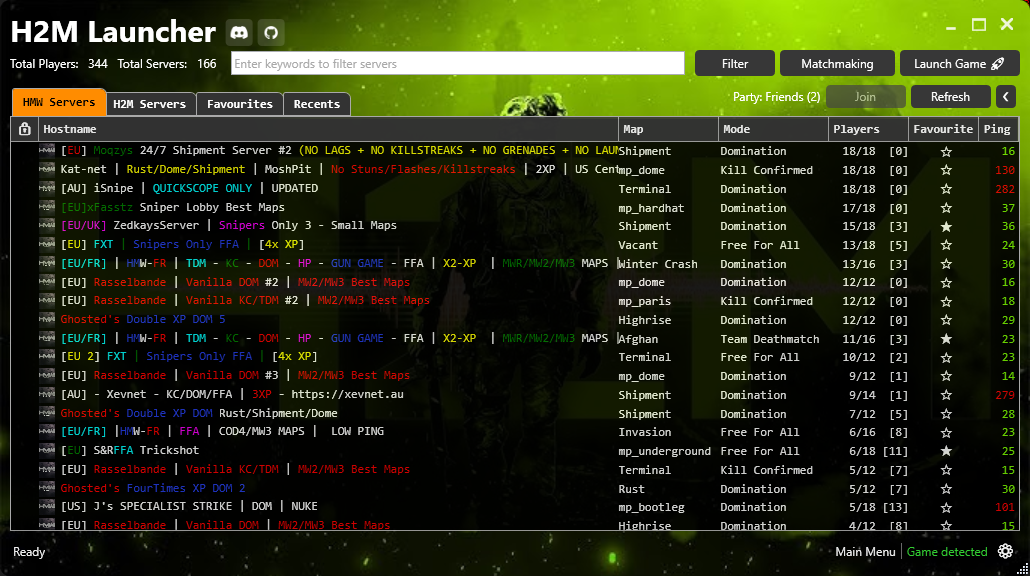
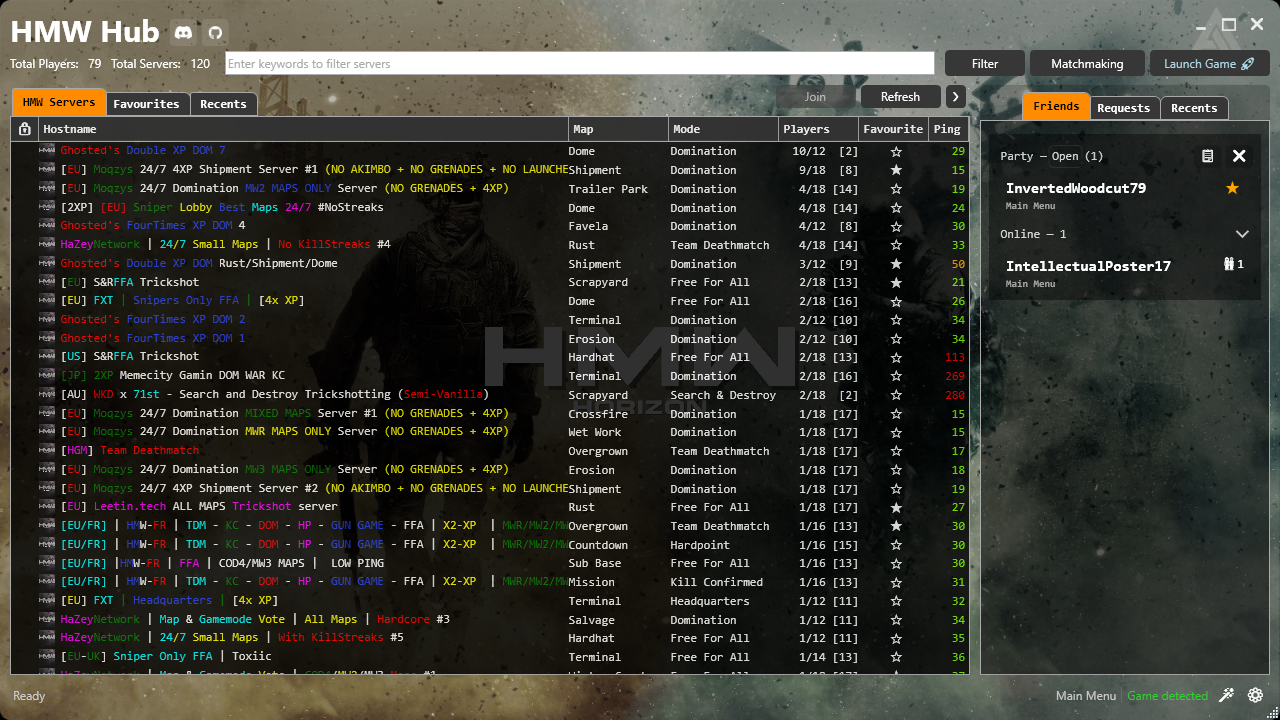
Rebrand (#223)
* change background image and text

* Change readme image

* Credits

* bump version 2.5.5-beta -> 2.6.0

* remove background override statusbar

* Add invalid protocol FAQ

diff --git a/H2MLauncher.UI/MainWindow.xaml b/H2MLauncher.UI/MainWindow.xaml
@@ -20,8 +20,8 @@
         ResizeMode="CanResizeWithGrip"
         MinHeight="576"
         MinWidth="1030"
-        Width="1030"
-        Height="576"
+        Width="1280"
+        Height="720"
         Background="Transparent"
         mc:Ignorable="d"
         MouseDown="Window_MouseDown"
@@ -29,7 +29,7 @@
         StateChanged="Window_StateChanged"
         Icon="Assets/icon.ico"
         xmlns:i="http://schemas.microsoft.com/xaml/behaviors"
-        Title="Better H2M-Launcher">
+        Title="HMW Hub">
     <i:Interaction.Triggers>
         <i:EventTrigger EventName="Loaded">
             <i:InvokeCommandAction Command="{Binding CheckUpdateStatusCommand}"/>
@@ -167,7 +167,7 @@
                     </Grid.ColumnDefinitions>
 
                     <!-- Title -->
-                    <TextBlock Grid.Column="0" Text="H2M Launcher" FontSize="30" FontWeight="Bold" Style="{DynamicResource TitleStyle}"/>
+                    <TextBlock Grid.Column="0" Text="HMW Hub" FontSize="30" FontWeight="Bold" Style="{DynamicResource TitleStyle}"/>
 
                     <!-- Socials -->
                     <StackPanel Grid.Column="2" Orientation="Horizontal" Margin="10,5,0,0">

diff --git a/H2MLauncher.UI/GlobalResources.xaml b/H2MLauncher.UI/GlobalResources.xaml
@@ -229,7 +229,7 @@
     <!-- Status Bar -->
     <Style x:Key="MainStatusBarStyle" TargetType="StatusBar">
         <Setter Property="Foreground" Value="{DynamicResource BrushNeutral200}" />
-        <Setter Property="Background" Value="Transparent"/>
+        <Setter Property="Background" Value="{DynamicResource TransparentDark600}"/>
     </Style>
 
     <Style TargetType="{x:Type Button}">
@@ -1069,7 +1069,7 @@
 
     <Style x:Key="ServerDataGridStyle" TargetType="DataGrid">
         <Setter Property="RowBackground" Value="Transparent"/>
-        <Setter Property="Background" Value="{DynamicResource DialogBackground}"/>
+        <Setter Property="Background" Value="{DynamicResource TransparentDark900}"/>
         <Setter Property="Opacity" Value="0.9"/>
         <Setter Property="BorderThickness" Value="0"/>
     </Style>

diff --git a/H2MLauncher.Core/Services/LauncherService.cs b/H2MLauncher.Core/Services/LauncherService.cs
@@ -25,7 +25,7 @@ namespace H2MLauncher.Core.Services
 
         // IMPORTANT: Set this to the same pre-release label used in GitHub
         // (appended like '-beta') or empty when this is a normal release!
-        public static readonly string CurrentPreReleaseLabel = "beta";
+        public static readonly string CurrentPreReleaseLabel = "";
         public static string CurrentVersion
         {
             get

diff --git a/H2MLauncher.UI/Properties/AssemblyInfo.cs b/H2MLauncher.UI/Properties/AssemblyInfo.cs
@@ -13,7 +13,7 @@ using System.Windows;
 
 
 
-[assembly: AssemblyVersion("2.5.5.0")]
-[assembly: AssemblyFileVersion("2.5.5.0")]
+[assembly: AssemblyVersion("2.6.0.0")]
+[assembly: AssemblyFileVersion("2.6.0.0")]
 [assembly: AssemblyTitle("Better H2M-Launcher")]
 [assembly: SupportedOSPlatform("windows")]

diff --git a/README.md b/README.md
@@ -1,13 +1,13 @@
-# H2M Launcher
+# HMW Hub: Queue, Party, Connect (formerly H2M-Launcher)
 
 **This launcher aims to provide features like server queueing, friends and party system to HorizonMW. The project originally started out to address some issues of the in-game server browser in the legacy H2M.**
 
 [<img src="https://img.shields.io/github/v/release/Bowhza/H2M-Launcher">](https://github.com/Bowhza/H2M-Launcher/releases)
 ![GitHub Downloads (all assets, all releases)](https://img.shields.io/github/downloads/Bowhza/H2M-Launcher/total)
 
-### **New Discord for H2M Launcher**
+### **Discord for HMW Hub**
 
-**Join if you want to stay up-to-date with the launcher, have questions, suggestions, or looking for people to play H2M with.**
+**Join if you want to stay up-to-date with the launcher, have questions, suggestions, or looking for people to play HMW with.**
 
 [<img src="https://img.shields.io/discord/1276483126041776192?logo=discord&logoColor=%23FFFFFF&label=Discord&labelColor=%235865F2&link=https%3A%2F%2Fdiscord.gg%2FNeBYKxq5Ru">](https://discord.com/invite/NeBYKxq5Ru)
 
@@ -122,9 +122,9 @@ Pending friend requests will appear in the **Requests** tab and can be accepted 
 ### Settings & Other
 
 - Auto-Updater **(Click on the new version available text to download latest release).**
-- Settings menu to set the master server URL or set the directory of the H2M-Mod Executable.
+- Settings menu to set the master server URL or set the directory of the HMW-Mod Executable.
 - Toggle game communication and server queueing.
-- Change keybindings for reconnect and refresh.
+- Change key bindings for reconnect and refresh.
 
 <img src="./Images/Settings.png">
 
@@ -149,7 +149,7 @@ Pending friend requests will appear in the **Requests** tab and can be accepted 
 
 | Keyboard/Mouse    | Description                              |
 | :---------------- | :--------------------------------------- |
-| `ESC`             | Close the H2M Launcher.                  |
+| `ESC`             | Close the HMW Hub.                       |
 | `TAB`             | Navigate between launcher controls.      |
 | `F5`              | Refresh the server list.                 |
 | `ENTER`           | Join the selected server.                |
@@ -208,10 +208,17 @@ Go to your Windows Settings and search for Clear Clipboard.
 
 **Answer**: Delete the `launchersettings.json` file located at `C:\Users\<YourUserName>\AppData\Local\BetterH2MLauncher`. After deleting the json file, next time you launch the exe it should be created again.
 
-### 7. Game is not detected / "Error launching h2m-mod"
+### 7. Game is not detected / "Error launching hmw-mod"
 
 **Answer**: The mod executable may require administrator privileges to start, so the launcher fails to start or detect it.
 Try to start the launcher with admin privileges too.
+
+### 8. "Connection failed: Invalid protocol" when joining a server
+
+<img src="./Images/ErrorInvalidProtocol.png">
+
+**Answer**: You are probably still running H2M and trying to join a HMW server, which is incompatible.
+Unfortunately, H2M is dead and all servers switched to HMW, so you have to [download HorizonMW](https://horizonmw.org/download.html).
 
 > [!IMPORTANT]
 > **If you encounter any issues not addressed here, please create an issue so it can be resolved and added to the FAQ if needed.**
@@ -229,3 +236,8 @@ dotnet publish -r win-x64 /p:PublishSingleFile=true /p:IncludeNativeLibrariesFor
 ```
 
 3. The executable should now be found under `bin/Release/net8.0/win-x64/publish` and you can copy it into your game directory from there.
+
+## 📸 Credits
+
+- **Background image edited by [JXNPlays](https://www.youtube.com/@jxnplays)** <br/>
+Based on [this original wallpaper](https://www.reddit.com/r/CallOfDuty/comments/4hhmc2/made_a_wallpaper_out_of_my_mwr_cover/)
